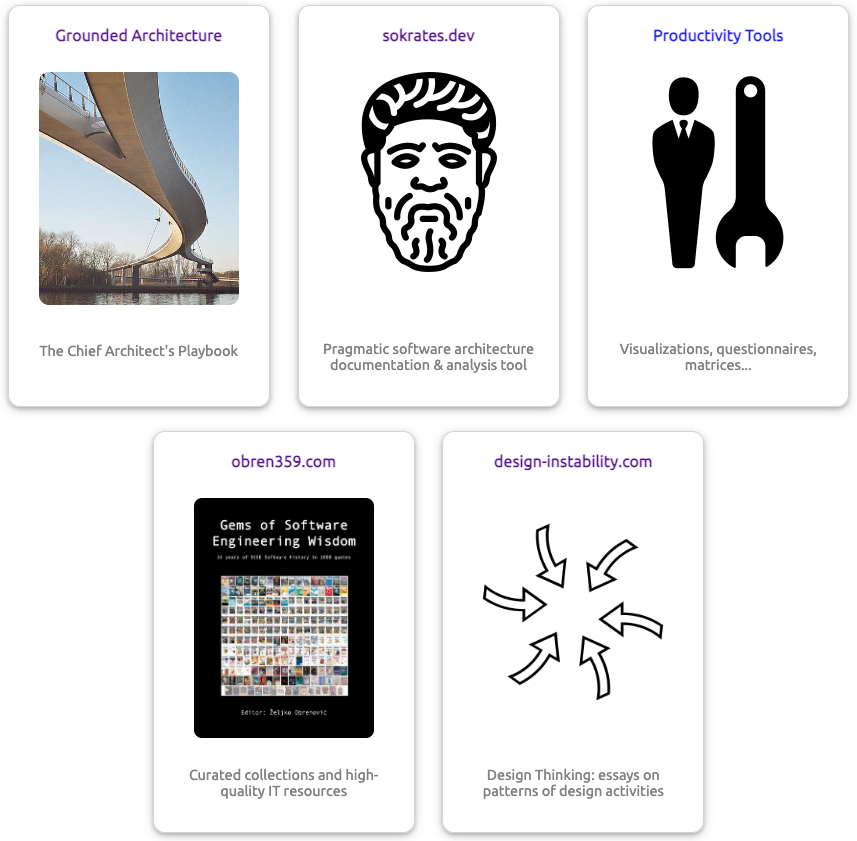
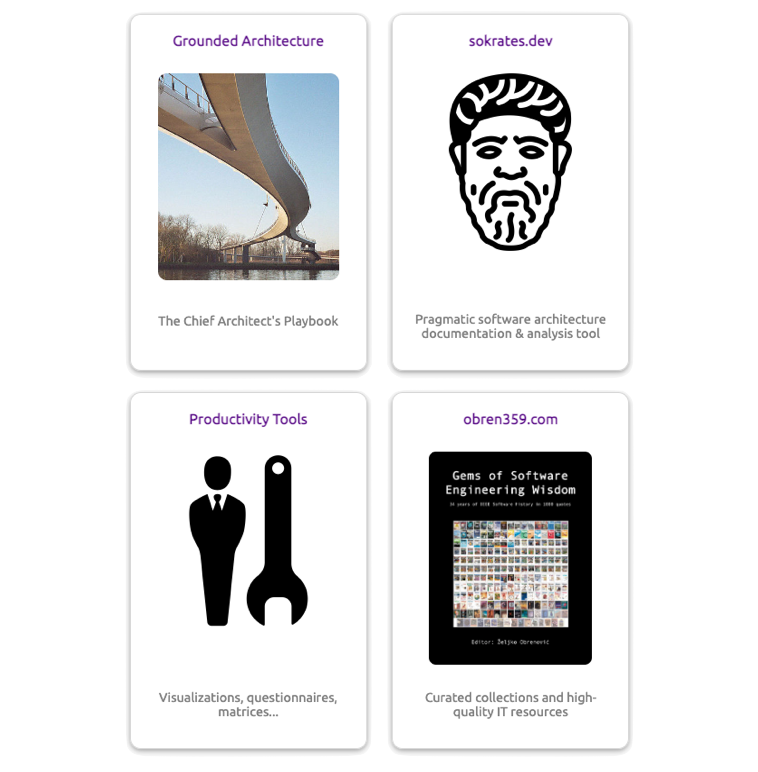
publishing changes

diff --git a/_site/intro.html b/_site/intro.html
@@ -166,11 +166,7 @@ Image by <a href="https://pixabay.com/users/fda54-145996/?utm_source=link-attrib
 
 <p>My experience as a CTO of <a href="https://incision.care">Incision</a>, a startup, has helped me better understand the difficulties and pragmatics of creating and running an IT organization.</p>
 
-<p>Lastly,</p>
-
-<ul>
-  <li><a href="https://design-instability.com/"><strong>Design Instability</strong></a> co-authored with Erik Stolterman, is a collection of essays where we connected experiences of designing/architecting in three disciplines: classical design, UX design, and software engineering. This work has helped me better relate to and learn from non-technical fields necessary for architecture work.</li>
-</ul>
+<p>Lastly, my experience as a researcher at <a href="https://www.cwi.nl/en/">Dutch Center for Computer Science and Mathematics (CWI)</a> and <a href="https://www.tue.nl/en/">Eindhoven Technical University (TU/e)</a> provided me with a valuable background to do rigorous data analyses and research. From this research period, I want to highlight a collection of essays <a href="https://design-instability.com/"><strong>Design Instability</strong></a> I co-authored with Erik Stolterman, where we connected experiences of designing/architecting in three disciplines: classical design, UX design, and software engineering. This work has helped me better relate to and learn from non-technical fields necessary for architecture work.</p>
 
 <h2 id="why-this-playbook">Why This Playbook?</h2>
 
@@ -187,7 +183,7 @@ Image by <a href="https://pixabay.com/users/fda54-145996/?utm_source=link-attrib
 
 <p>Second, by generalizing and putting my experiences on paper, I hope to create more usable materials to help others in similar situations. I also expect helpful feedback from a broader community by sharing these materials.</p>
 
-<h2 id="a-part-of-the-bigger-picture-a-trilogy-in-five-parts">A Part of the Bigger Picture: A Trilogy in Five Parts</h2>
+<h2 id="a-part-of-the-bigger-picture-a-trilogy-in-four-parts">A Part of the Bigger Picture: A Trilogy in Four Parts</h2>
 
 <p>This book is a part of the <a href="https://obren.io/">collection of open-source tools and resources</a> I have built in the past ten years to help me in architectural work (Figure 2).</p>
 

diff --git a/_site/summary.html b/_site/summary.html
@@ -103,8 +103,8 @@ Image by <a href="https://pixabay.com/users/geralt-9301/?utm_source=link-attribu
   <p><strong>KEY POINTS:</strong></p>
 
   <ul>
-    <li>This playbook described an approach to running an an IT architecture practice in larger organizations.</li>
-    <li>I called this approach "Grounded Architecture," highlighting the need for any IT architecture function to stay well-connected to all levels of an organization and led by data.</li>
+    <li>This playbook described an approach to running an IT architecture practice in larger organizations, generalizing lessons I learned as Chief Architect at  AVIV Group, eBay Classifieds, and Adevinta.</li>
+    <li>I called this approach “Grounded Architecture,” highlighting the need for any IT architecture function to stay well-connected to all levels of an organization and led by data.</li>
     <li>In this section, I summarize the key points from the playbook.</li>
   </ul>
 </blockquote>
@@ -117,7 +117,7 @@ Image by <a href="https://pixabay.com/users/geralt-9301/?utm_source=link-attribu
   <li><strong>Reflections</strong>, a set of my considerations and guiding principles that can help put the ideas of Grounded Architecture into practice.</li>
 </ul>
 
-<p>The following figure illustrates the structure of the Grounded Architecture consisting of three elements:</p>
+<p>The structure of the Grounded Architecture consisting of three elements:</p>
 <ul>
   <li>The Data Pillar,</li>
   <li>The People Pillar,</li>
